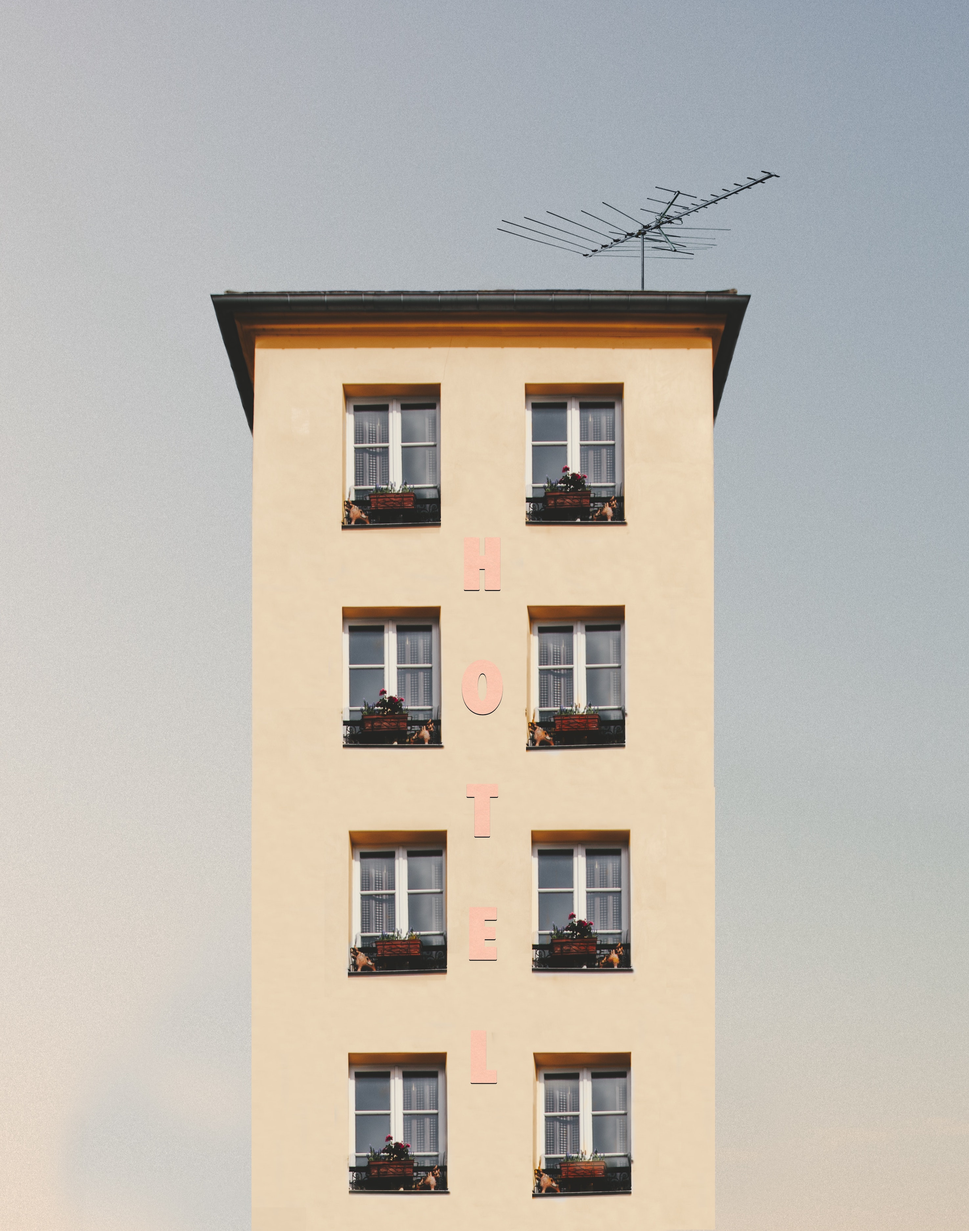
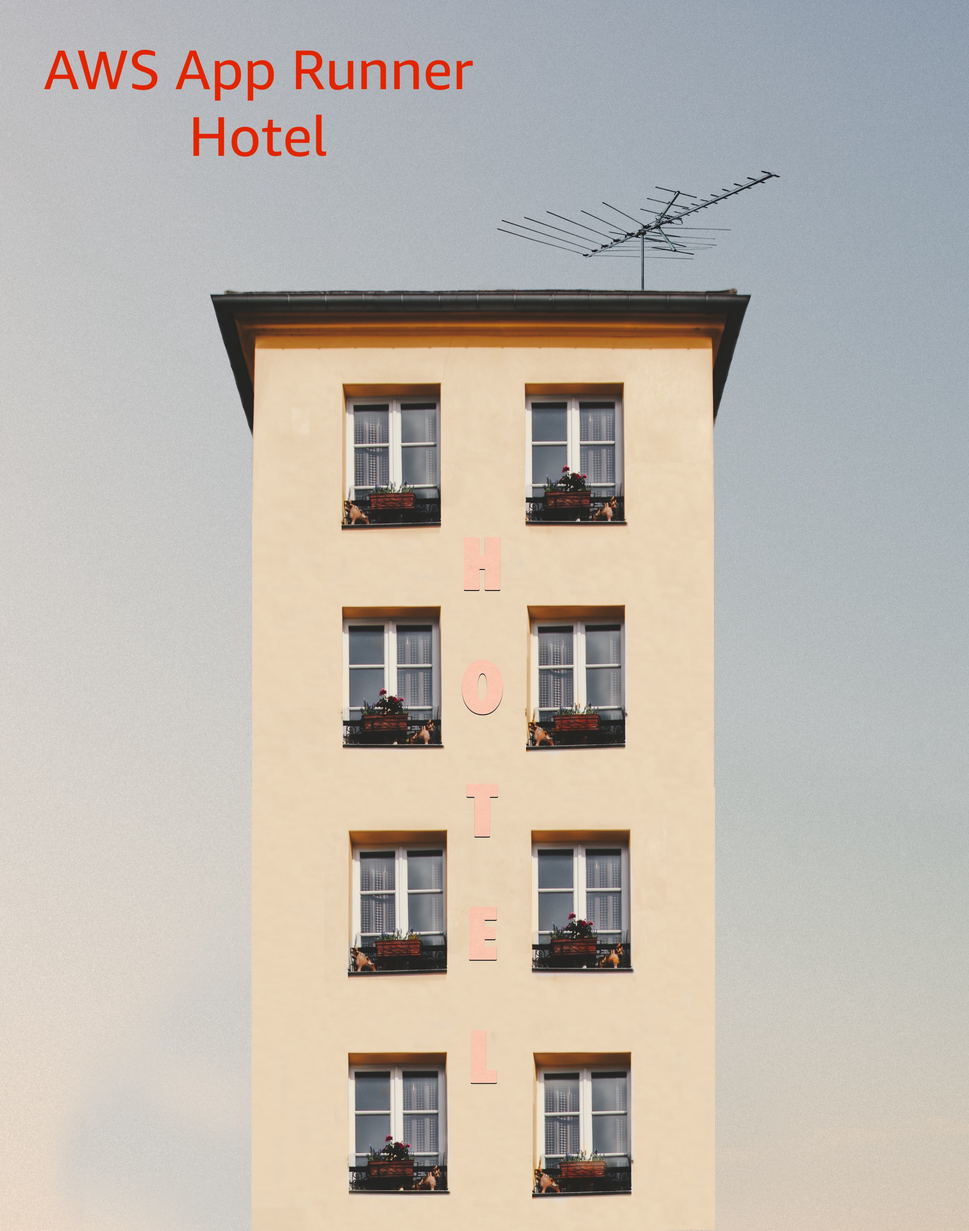
Tweaks and updates

Changed region(s): [[0.1871, 0.0312, 0.499, 0.1248], [0.0312, 0.0312, 0.1559, 0.0936]]

diff --git a/routes/index.js b/routes/index.js
@@ -21,7 +21,7 @@ var router = express.Router();
 
 /* GET home page. */
 router.get('/', function(req, res, next) {
-  res.render('index', { title: 'AP Hotel' });
+  res.render('index', { title: 'AWS App Runner Hotel' });
 });
 
 module.exports = router;
